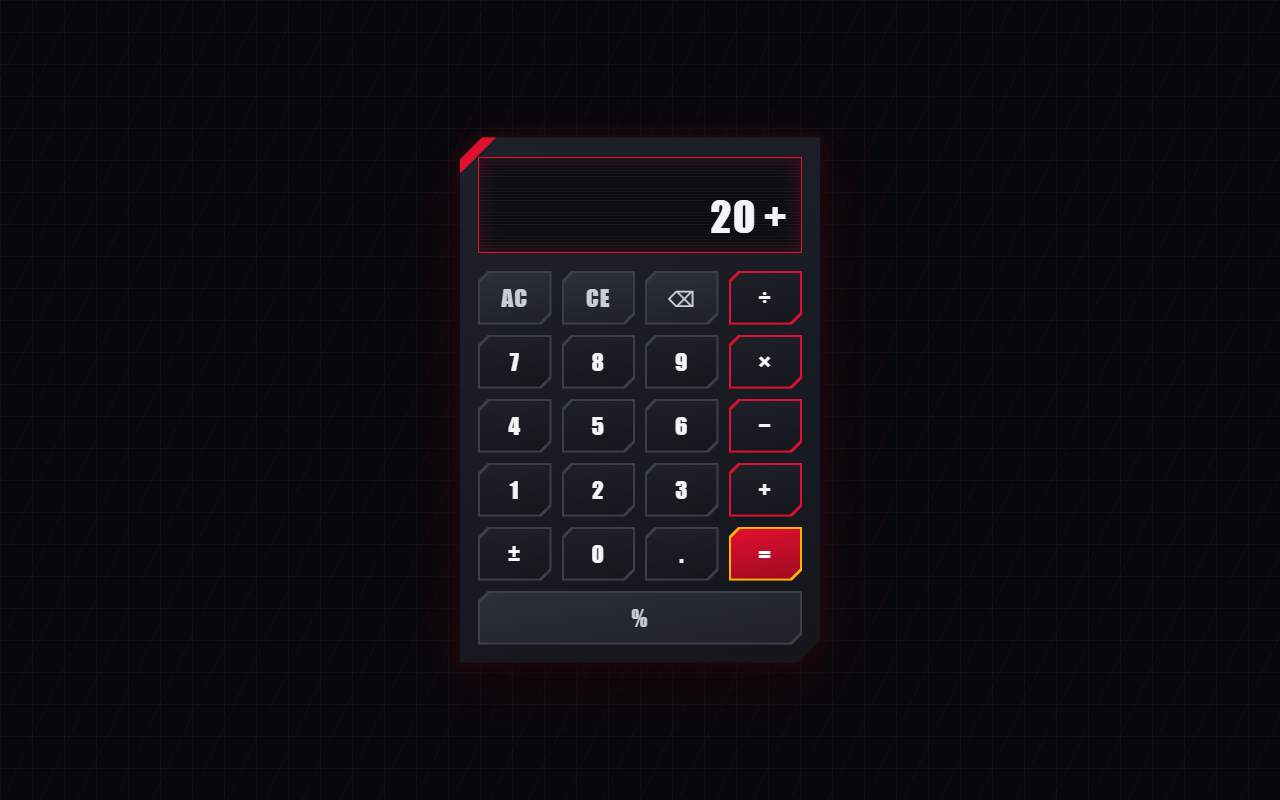
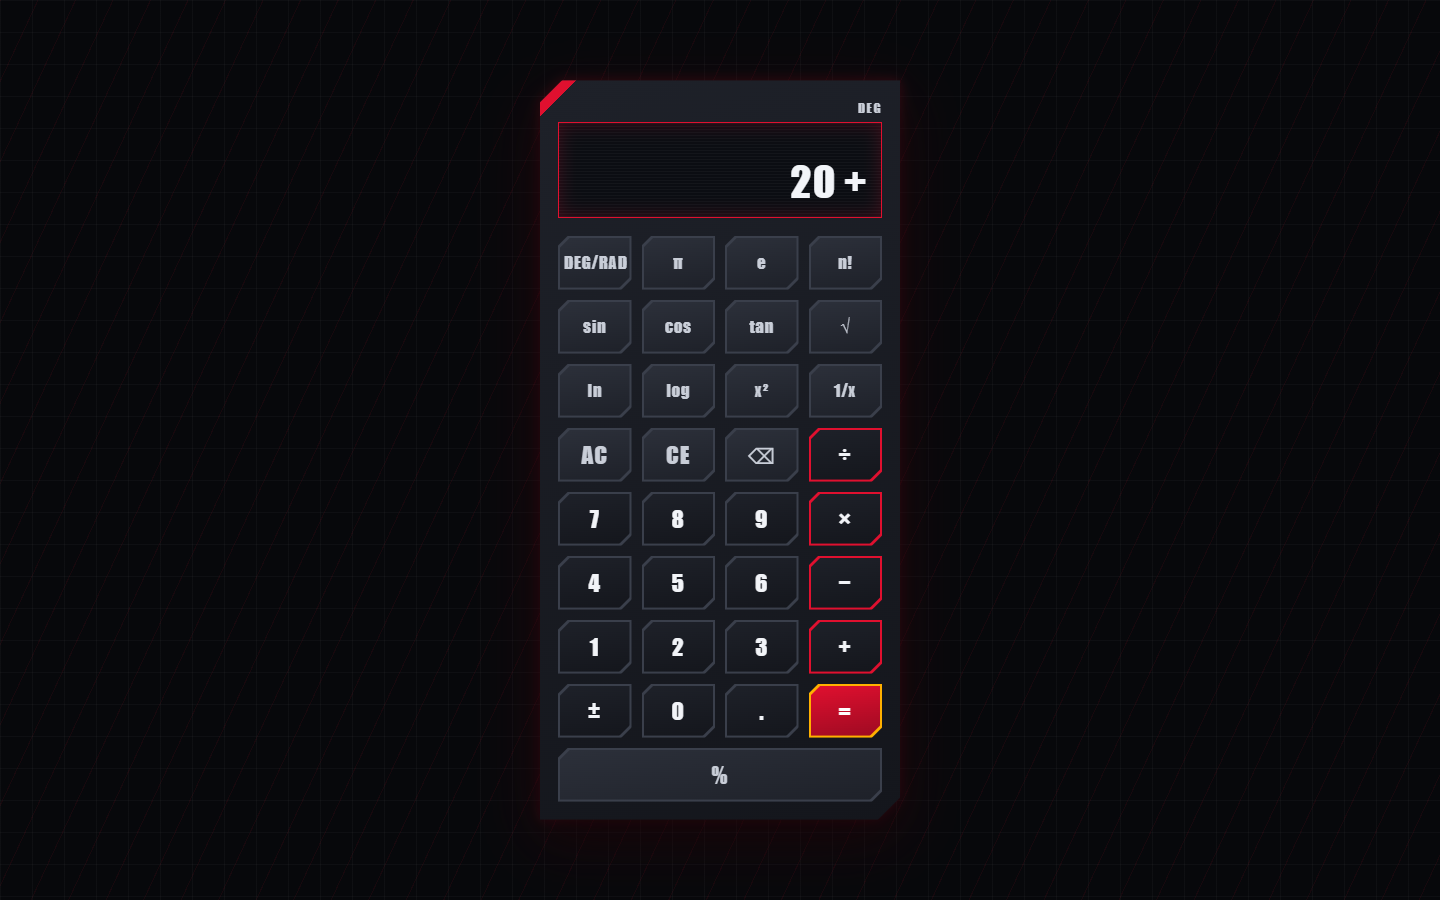
Flash 消 for scientific keys and retake Battle HUD screenshots after the merge
The scientific, pi/e and DEG/RAD keys share the fn plate colour, so fxGroup
now gives them the fn kanji instead of the digit default. The eight
screenshots are retaken from the merged head, so they show the scientific
rows and the DEG badge; nothing overflows sideways at 360 px.

Changed region(s): [[0.3438, 0.0625, 0.6562, 0.9062]]

diff --git a/src/components/Calculator.test.tsx b/src/components/Calculator.test.tsx
@@ -257,6 +257,11 @@ describe('10. battle HUD effects', () => {
     expect(fx('.fx-kanji-op')).toHaveTextContent('斬');
     await click('backspace');
     expect(fx('.fx-kanji-fn')).toHaveTextContent('消');
+    for (const name of ['sine', 'pi', 'angle unit']) {
+      await click(name);
+      expect(fx('.fx-kanji-fn')).toHaveTextContent('消');
+      expect(fx('.fx-kanji-digit')).toBeNull();
+    }
     await click('equals');
     expect(fx('.fx-kanji')).toBeNull();
     expect(fx('.fx-slash')).toBeNull();

diff --git a/src/components/Calculator.tsx b/src/components/Calculator.tsx
@@ -17,6 +17,10 @@ function fxGroup(action: Action): FxGroup {
     case 'clearAll':
     case 'clearEntry':
     case 'backspace':
+    // The scientific keys share the fn plate colour, so they share its kanji too.
+    case 'unary':
+    case 'constant':
+    case 'toggleAngleUnit':
       return 'fn';
     case 'equals':
       return 'equals';

diff --git a/README.md b/README.md
@@ -45,7 +45,7 @@ npm run build   # type-check (strict) and build to dist/
   - After `+` or `−`, `b %` gives `a × b / 100`, so `200 + 10 % =` → `220`.
   - After `×` or `÷`, `b %` gives `b / 100`, so `50 × 10 % =` → `5`.
 - **Expression line.** The display shows the calculation as it is typed (`20 +`, then `20 + 20`). After `=`, a small `20 + 20 =` line sits above the result until the next key.
-- **Effects.** Each press flashes a kanji (撃 digits, 斬 operators and %, 消 AC/CE/⌫); `=` stamps "決着 FINISH" and an error shows a "限界突破 SYSTEM BREAK" banner. The calculator gets `is-pending`, `is-result` or `is-error` to match. The effects layer is `aria-hidden`, sits outside the display, and only animates when `prefers-reduced-motion` allows it.
+- **Effects.** Each press flashes a kanji (撃 digits, 斬 operators and %, 消 AC/CE/⌫ and the scientific, π/e and DEG/RAD keys); `=` stamps "決着 FINISH" and an error shows a "限界突破 SYSTEM BREAK" banner. The calculator gets `is-pending`, `is-result` or `is-error` to match. The effects layer is `aria-hidden`, sits outside the display, and only animates when `prefers-reduced-motion` allows it.
 - **Divide by zero** shows `Error`. Only a digit (which starts a fresh calculation) or AC does anything until then.
 - **Scientific functions** apply to the displayed number and keep any pending operator: `9 + 16 √ =` gives `13`. Right after an operator they use the shown value, so `9 + √ =` gives `9 + 3`.
 - **π and e** replace the current entry: `2 × π =` gives `6.28318530718`.
